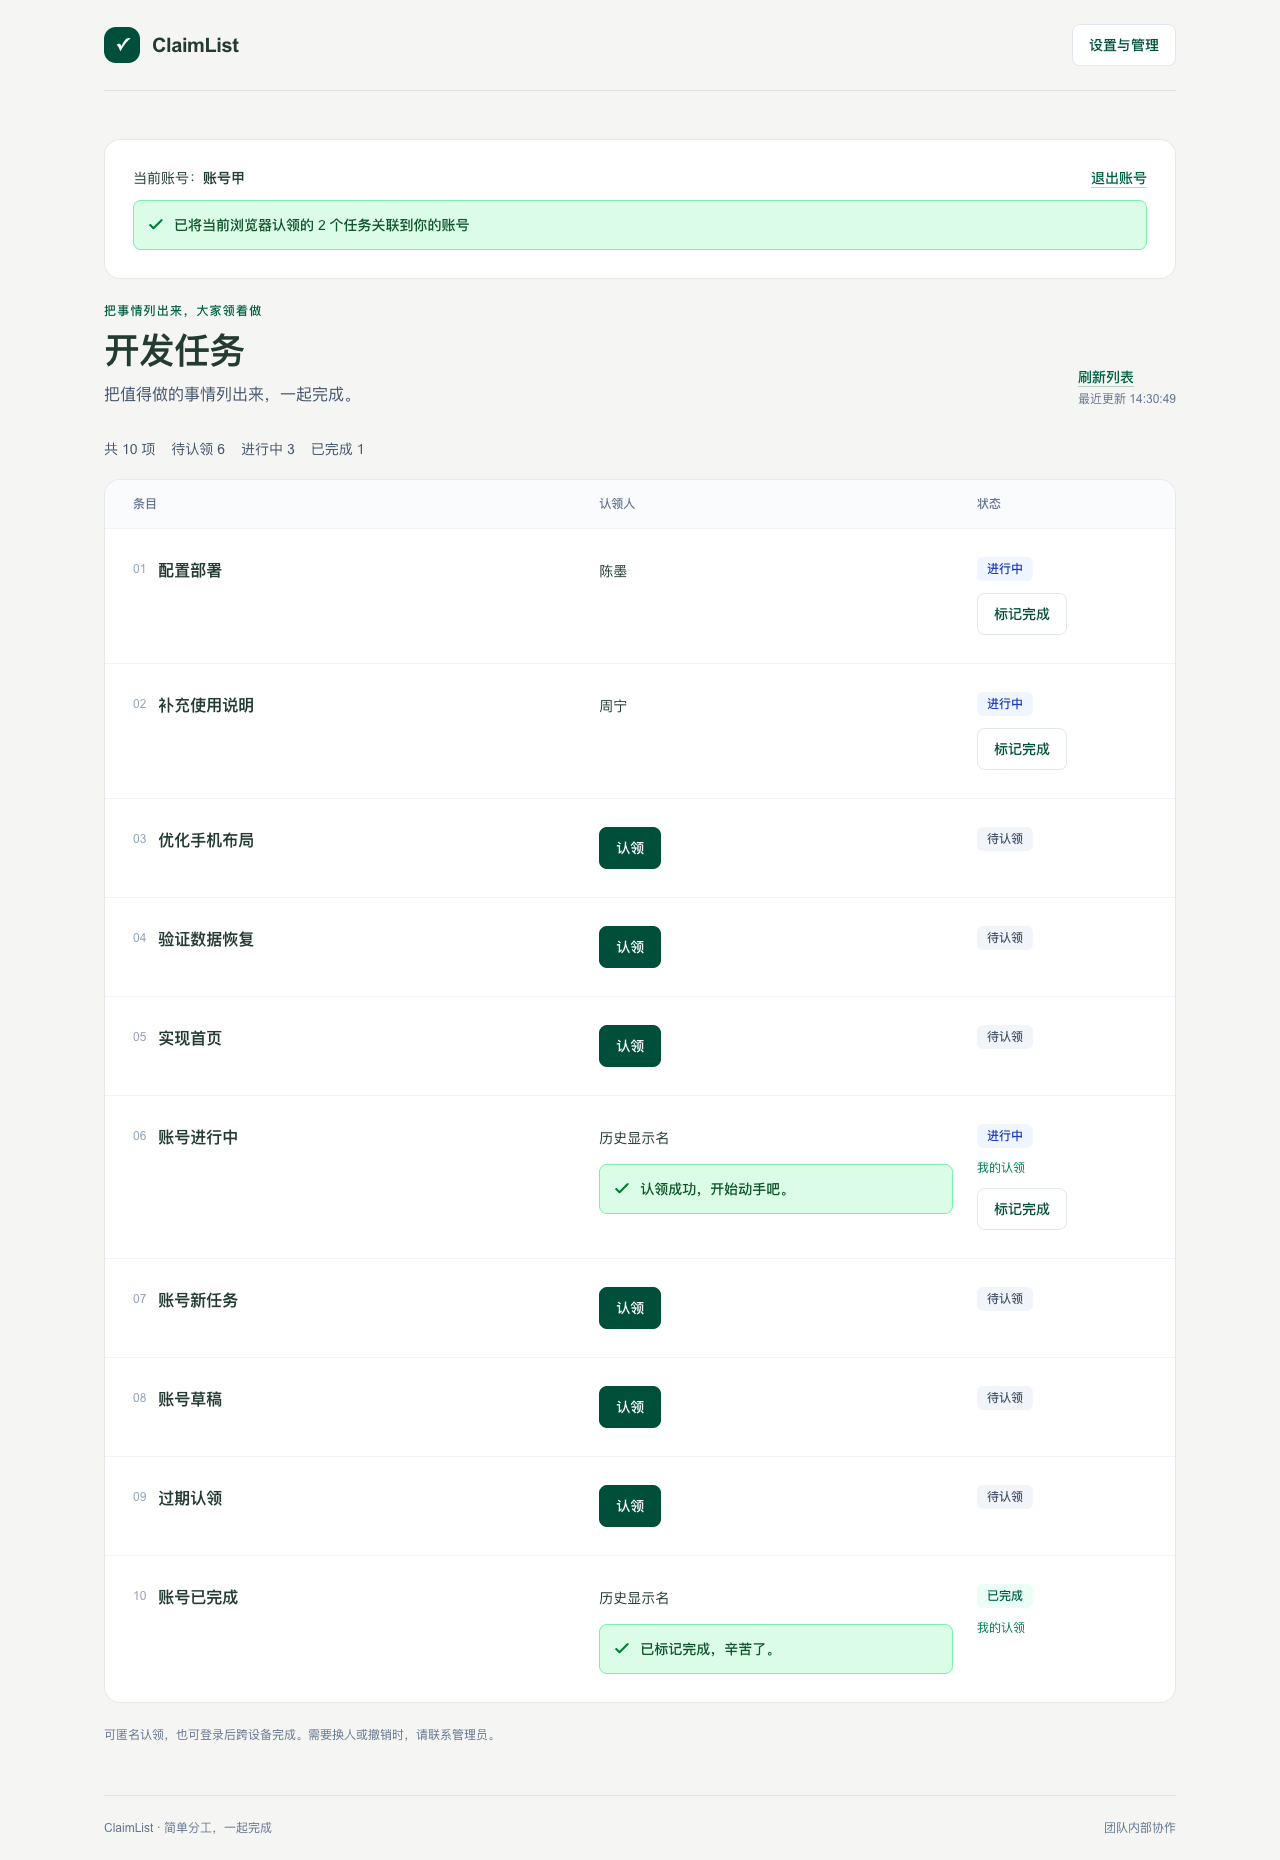
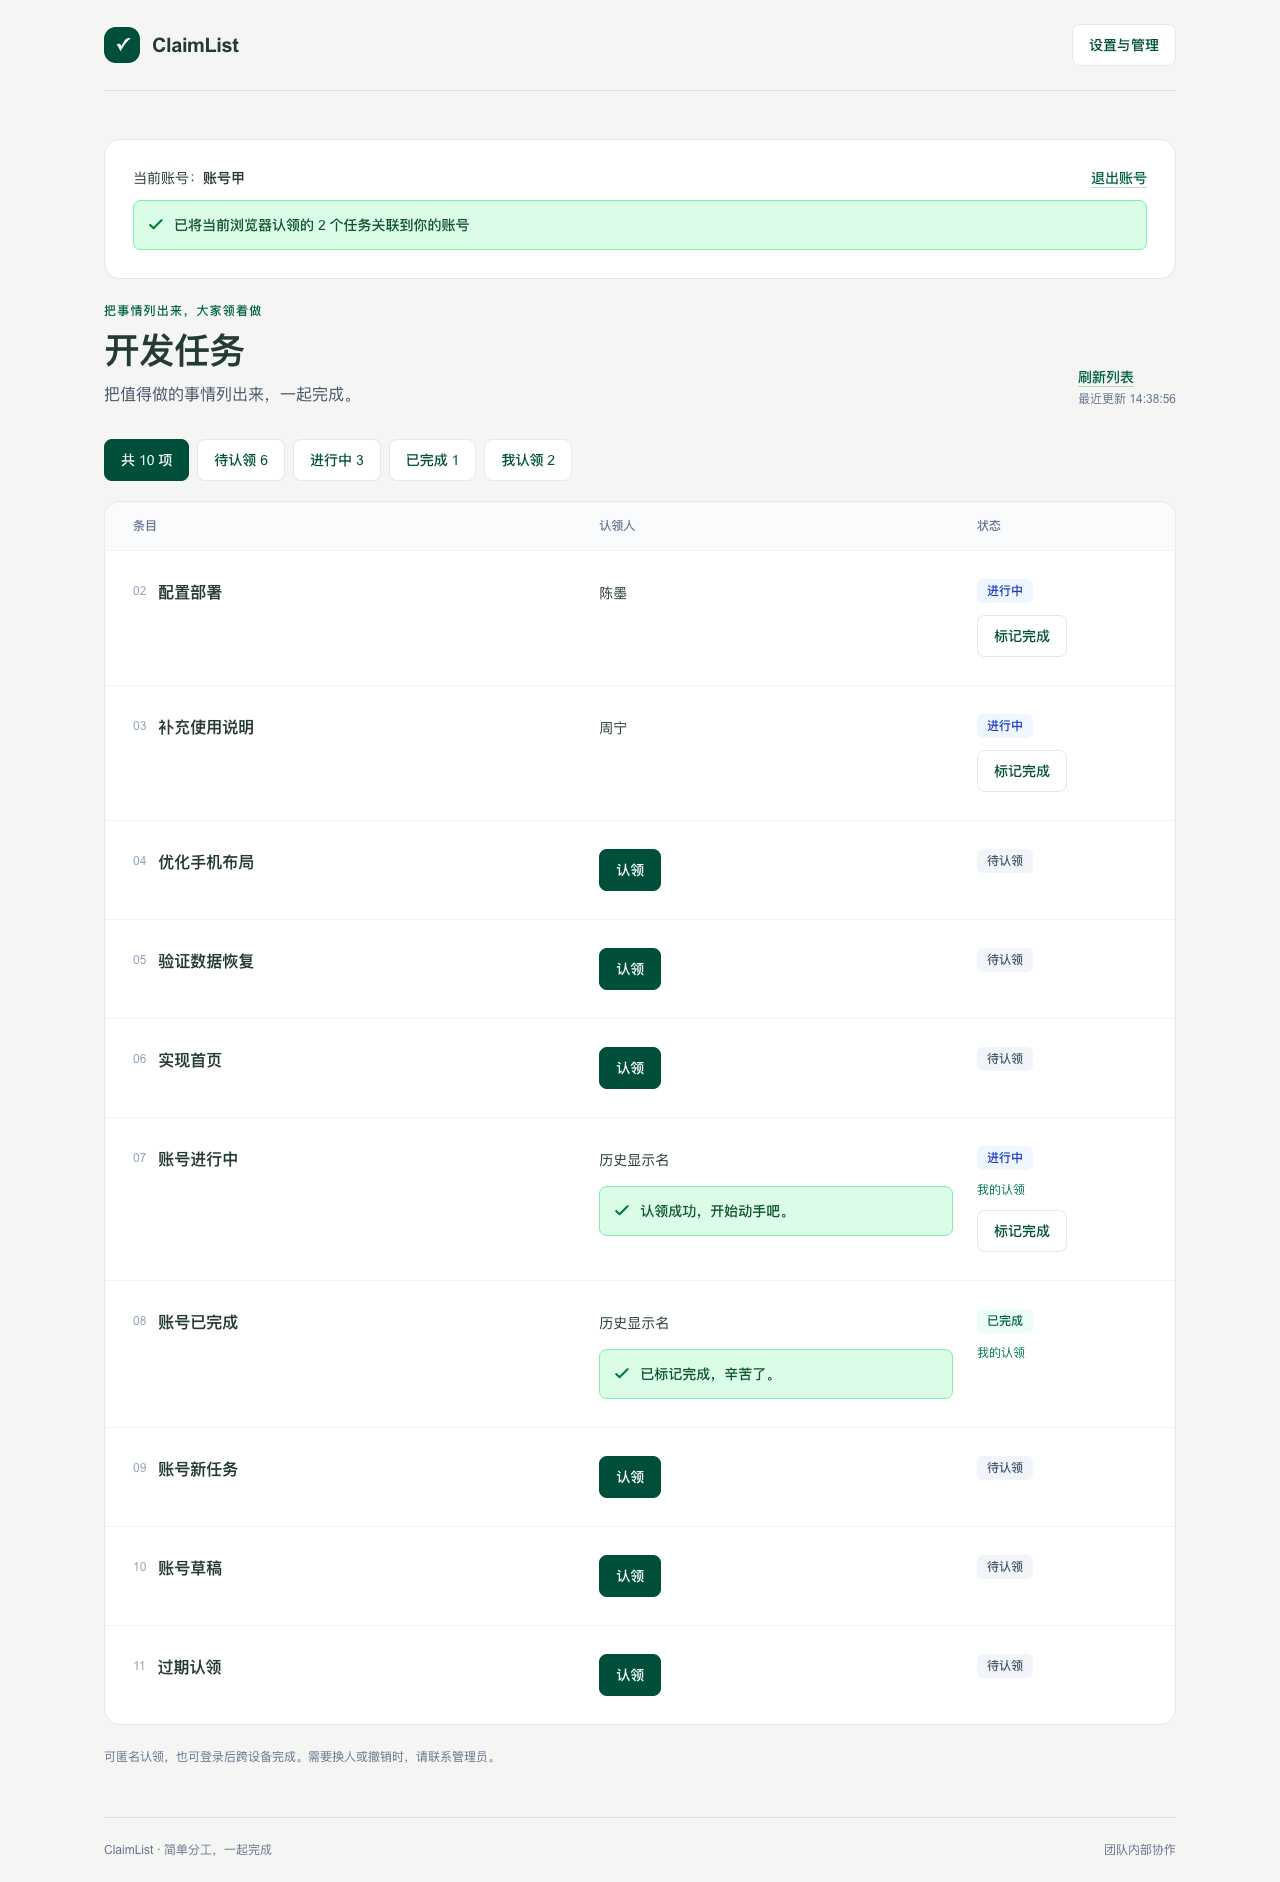
feat: 优化排序，增加筛选机制

diff --git a/src/components/public-list.tsx b/src/components/public-list.tsx
@@ -21,6 +21,7 @@ export function PublicList() {
   const [busy, setBusy] = useState("");
   const [accountBusy, setAccountBusy] = useState(false);
   const [accountMode, setAccountMode] = useState<AccountMode>(null);
+  const [filter, setFilter] = useState("all");
   const [itemNotices, setItemNotices] = useState<
     Record<string, ItemNoticeData>
   >({});
@@ -102,6 +103,27 @@ export function PublicList() {
       setBusy("");
     }
   }
+  const items = data?.items || [];
+  const groups = [
+    { key: "all", label: `共 ${items.length} 项`, items },
+    {
+      key: "unclaimed",
+      label: "待认领",
+      items: items.filter((i) => !i.claimant),
+    },
+    {
+      key: "active",
+      label: "进行中",
+      items: items.filter((i) => i.claimant && !i.completedAt),
+    },
+    {
+      key: "completed",
+      label: "已完成",
+      items: items.filter((i) => i.completedAt),
+    },
+    { key: "mine", label: "我认领", items: items.filter((i) => i.isMine) },
+  ];
+  const visibleItems = groups.find((group) => group.key === filter)!.items;
   const orphaned = data
     ? Object.entries(drafts).filter(
         ([id, d]) => d.name && !data.items.some((i) => i.id === id),
@@ -154,20 +176,36 @@ export function PublicList() {
         </div>
       ) : (
         <>
-          <div className="mb-5 flex flex-wrap gap-4 text-sm text-slate-600">
-            <span>共 {data.items.length} 项</span>
-            <span>待认领 {data.items.filter((i) => !i.claimant).length}</span>
-            <span>
-              进行中{" "}
-              {data.items.filter((i) => i.claimant && !i.completedAt).length}
-            </span>
-            <span>已完成 {data.items.filter((i) => i.completedAt).length}</span>
+          <div
+            role="group"
+            aria-label="条目分类"
+            className="mb-5 flex flex-wrap gap-2"
+          >
+            {groups.map((group) => (
+              <button
+                key={group.key}
+                type="button"
+                aria-pressed={filter === group.key}
+                className={`button ${filter === group.key ? "" : "secondary"}`}
+                onClick={() => setFilter(group.key)}
+              >
+                {group.label}
+                {group.key !== "all" && ` ${group.items.length}`}
+              </button>
+            ))}
           </div>
           {!data.items.length ? (
             <div className="panel py-16 text-center">
               <h2>还没有条目</h2>
               <p className="mt-3 text-sm text-slate-500">
                 暂无条目，管理员可通过右上角设置添加
+              </p>
+            </div>
+          ) : !visibleItems.length ? (
+            <div className="panel py-16 text-center" role="status">
+              <h2>当前分类暂无条目</h2>
+              <p className="mt-3 text-sm text-slate-500">
+                可切换上方分类查看其他条目。
               </p>
             </div>
           ) : (
@@ -180,15 +218,18 @@ export function PublicList() {
                 <span>{data.config.claimantLabel}</span>
                 <span>{data.config.statusLabel}</span>
               </div>
-              {data.items.map((item, index) => (
+              {visibleItems.map((item) => (
                 <article
                   key={item.id}
                   aria-label={item.title}
                   className="grid gap-4 border-b border-slate-100 p-5 last:border-0 md:grid-cols-[minmax(0,1.25fr)_minmax(0,1fr)_170px] md:items-start md:gap-6 md:p-7"
                 >
                   <div className="flex items-start gap-3">
-                    <span className="mt-1 text-xs tabular-nums text-slate-400">
-                      {String(index + 1).padStart(2, "0")}
+                    <span
+                      aria-label="条目序号"
+                      className="mt-1 shrink-0 text-xs tabular-nums text-slate-400"
+                    >
+                      {String(item.sequence).padStart(2, "0")}
                     </span>
                     <h2 className="min-w-0 text-base leading-7 break-words">
                       {item.title}

diff --git a/tests/store.test.ts b/tests/store.test.ts
@@ -109,6 +109,7 @@ test("管理员更名不转移身份，状态纠错和删除重建", (t) => {
   store.claim(item, "张三", identity);
   const row = () =>
     store.list(identity).items.find((entry) => entry.id === item)!;
+  assert.equal(row().sequence, 1);
   store.edit(item, row().revision, "name", "李四");
   assert.equal(row().claimant, "李四");
   assert(row().canComplete);
@@ -128,7 +129,7 @@ test("管理员更名不转移身份，状态纠错和删除重建", (t) => {
   assert(row().completedAt);
   assert.deepEqual(
     store.list(identity).items.map((entry) => entry.title),
-    ["另一个", "新标题"],
+    ["新标题", "另一个"],
   );
   store.edit(item, row().revision, "reopen");
   assert.deepEqual(
@@ -136,6 +137,7 @@ test("管理员更名不转移身份，状态纠错和删除重建", (t) => {
     ["新标题", "另一个"],
   );
   assert.equal(row().completedAt, null);
+  assert.equal(row().sequence, 1);
   assert.equal(row().claimant, "李四");
   store.edit(item, row().revision, "finish");
   store.edit(item, row().revision, "release");
@@ -159,6 +161,16 @@ test("管理员更名不转移身份，状态纠错和删除重建", (t) => {
     .items.find((i) => i.title === "新标题")!;
   assert.notEqual(recreated.id, item);
   assert.equal(recreated.claimant, null);
+  assert.deepEqual(
+    store.list(identity).items.map((entry) => entry.sequence),
+    [2, 3],
+  );
+  store.edit(recreated.id, recreated.revision, "delete");
+  store.addBatch("新条目");
+  assert.deepEqual(
+    store.list(identity).items.map((entry) => entry.sequence),
+    [2, 4],
+  );
 });
 
 test("初始化封闭、会话到期退出与改密重置失效、失败保留密码", (t) => {

diff --git a/src/server/store.ts b/src/server/store.ts
@@ -17,6 +17,7 @@ import {
 
 type Row = {
   id: string;
+  sequence: number;
   title: string;
   claimant: string | null;
   claim_ip: string | null;
@@ -249,15 +250,14 @@ export class Store {
   private listSnapshot(identity: Identity): ListData {
     const participant = this.participants.current(identity.participantToken);
     const rows = this.db
-      .prepare(
-        "SELECT * FROM items ORDER BY completed_at IS NOT NULL, sequence",
-      )
+      .prepare("SELECT * FROM items ORDER BY sequence")
       .all() as Row[];
     return {
       participant,
       config: JSON.parse(this.settings().config),
       items: rows.map((row): Item => ({
         id: row.id,
+        sequence: row.sequence,
         title: row.title,
         claimant: row.claimant,
         claimedAt: row.claimed_at,

diff --git a/src/components/admin.tsx b/src/components/admin.tsx
@@ -380,6 +380,12 @@ export function Admin() {
                     >
                       <div className="min-w-0 flex-1 basis-64">
                         <h3 className="font-medium break-words">
+                          <span
+                            aria-label="条目序号"
+                            className="mr-3 text-xs font-normal tabular-nums text-slate-400"
+                          >
+                            {String(item.sequence).padStart(2, "0")}
+                          </span>
                           {item.title}
                         </h3>
                         <div className="mt-2 flex flex-wrap items-center gap-3">

diff --git a/src/shared/model.ts b/src/shared/model.ts
@@ -17,6 +17,7 @@ export type Config = {
 };
 export type Item = {
   id: string;
+  sequence: number;
   title: string;
   claimant: string | null;
   claimedAt: number | null;

diff --git a/docs/verification.md b/docs/verification.md
@@ -54,7 +54,7 @@
 
 - 后续启动配置调整：pnpm dev/start 明确监听 0.0.0.0:1234；自动直连来源覆盖本机实际 IP，仍校验同源并拒绝任意 Host。
 
-- 列表排序调整：标记完成后移入底部已完成区域，重新打开后回到未完成区域；两组内保留录入顺序。现有数据库状态纠错测试及浏览器完成/重新打开流程增加顺序断言。
+- 历史列表排序调整（已被 2026-10-10 固定序号与分类筛选取代）：标记完成后移入底部已完成区域，重新打开后回到未完成区域；两组内保留录入顺序。现有数据库状态纠错测试及浏览器完成/重新打开流程增加顺序断言。
 
 - 认领冲突简化：服务端返回当前认领人姓名；前端在对应条目的认领人下方显示 5 秒提示框并刷新列表，冲突草稿从页面和 sessionStorage 清除。浏览器验收检查行内提示位置、自动消失、最新认领人、草稿清除及重载行为，截图见 [认领冲突提示](screenshots/claim-conflict-tip.png)。网络结果不确定时仍保留输入。
 
@@ -123,3 +123,16 @@
 - HTTP 端口映射可访问，容器健康检查达到 `healthy`。默认绑定 `0.0.0.0:1234`，宿主机 `./data` 映射到容器 `/data`，可通过环境配置更改。
 
 部署、更新和数据迁入步骤见 [Docker 部署与持久化](docker.md)。现场网络访问范围及反向代理来源 IP 仍需按实际环境确认，保留 AUTH-001 的已知边界。
+
+## 固定录入序号与分类筛选（2026-10-10）
+
+此变更替代此前“完成沉底”的规则。首页和管理页按 SQLite 既有 `sequence` 升序展示，并直接显示固定录入序号；完成、改名、重新打开、释放和筛选不改序号，删除后保留空号。无需修改数据库结构或迁移现有数据。
+
+首页“共 N 项／待认领 N／进行中 N／已完成 N／我认领 N”均为单选分类按钮，选中高亮。数量来自完整清单，筛选结果保留原编号，空分类保留筛选入口与空结果提示。“我认领”包含进行中和已完成条目，使用既有账号或匿名 UUID 归属判断，不使用 IP 或姓名；登录和退出后随最新身份更新。切换分类、刷新不丢姓名草稿，操作后的分类保持选中并按最新状态更新结果。
+
+- `pnpm check`、`pnpm test`（17 组）、`pnpm build` 通过。
+- `PLAYWRIGHT_CHANNEL=chrome pnpm test:e2e`（3 组）通过：默认顺序、完成后位置不变、五种分类、固定序号、空分类、刷新保留选择、切换保留草稿、账号跨设备“我认领”、退出后的数量归零、完成后移出“进行中”筛选结果及原有二次确认和冲突处理。
+- 数据测试覆盖删除后旧编号不变、删除最大序号后不复用、不同账号及同 IP 不计入“我认领”、同 UUID 或所属账号可正确识别进行中和已完成条目。
+- 已目视核对 [我认领筛选](screenshots/filter-mine.png)、[桌面清单](screenshots/list-desktop.png) 和 [手机分类换行](screenshots/list-mobile.png)，手机无横向溢出；截图等待过渡及重绘完成后保存。
+
+全部验证使用隔离数据库；未替换正在使用的容器，也未修改现有任务。容器用户通过重新构建镜像并更新容器应用此次变更，原持久化目录继续沿用。

diff --git a/docs/account-development-plan.md b/docs/account-development-plan.md
@@ -13,7 +13,7 @@
 - 管理员可以重置指定参与者密码；参与者和管理员会话、权限、退出及密码重置相互独立。
 - 不增加邮箱验证、邮件找回、第三方登录、账号资料编辑、账号删除、复杂角色或独立“我的任务”页面。
 
-保留当前已交付交互：完成条目沉底，两组内按录入顺序；不常驻显示身份不匹配文案；认领冲突在条目内显示红底红叉及当前认领人，清除该条目草稿并刷新；成功显示绿底绿勾。提示 5 秒后消失。普通刷新及失败保护输入。
+保留当前已交付交互：条目按固定录入序号排序，支持状态及“我认领”筛选（2026-10-10 更新）；不常驻显示身份不匹配文案；认领冲突在条目内显示红底红叉及当前认领人，清除该条目草稿并刷新；成功显示绿底绿勾。提示 5 秒后消失。普通刷新及失败保护输入。
 
 ## 2. 实施前基线与改动范围
 
@@ -108,7 +108,7 @@
 - [x] 邮箱、姓名等非敏感输入可保留；密码和确认密码不写 localStorage/sessionStorage。切换登录态不清掉无关条目的未提交输入。
 - [x] 管理员重置密码或其他标签页切换身份后，本页刷新立即更新状态；旧页面提交不得绕过服务端校验。
 
-验收：多浏览器上下文分别模拟匿名、账号 A、账号 B 和管理员；覆盖跨设备、跳过登录、存储失效、请求丢失、会话过期、草稿保护与手机布局。保留完成沉底、红叉/绿勾行内提示及认领冲突简化行为。
+验收：多浏览器上下文分别模拟匿名、账号 A、账号 B 和管理员；覆盖跨设备、跳过登录、存储失效、请求丢失、会话过期、草稿保护与手机布局。保留固定录入序号排序、红叉/绿勾行内提示及认领冲突简化行为；排序与分类按 2026-10-10 新决定执行。
 
 ### 7.5 管理员重置参与者密码
 

diff --git a/docs/pages-and-states.md b/docs/pages-and-states.md
@@ -21,7 +21,11 @@
 
 ## 2. 首页与参与者操作
 
-列表先展示未完成条目，再展示已完成条目，两组内各按录入顺序排列。标记完成成功后立即沉入底部的已完成区域；管理员重新打开或释放认领后，条目回到未完成区域的原录入位置。管理页现有条目使用同一排序。
+列表默认按固定录入序号升序显示全部条目，完成后保留原位置。首页与管理页都展示数据库中的录入序号，筛选、删除或改变状态不重新编号；删除留下的空号不补齐。
+
+首页表格上方提供五个可点击分类：“共 N 项、待认领 N、进行中 N、已完成 N、我认领 N”。默认选中全部，当前分类高亮并向辅助技术标记选中状态，手机端自动换行。数量始终来自完整清单，筛选只改变显示内容，结果仍按录入序号升序排列。无匹配项时显示“当前分类暂无条目”，保留分类入口供切换；整个清单为空时仍显示管理员添加指引。
+
+“我认领”包含自己的进行中与已完成条目：已绑定条目匹配当前账号，未绑定条目匹配当前浏览器 UUID，不按 IP 或姓名判断。登录、退出及账号切换后按最新身份重算。切换分类和普通刷新不清除姓名草稿，刷新和操作后保留当前分类选择；条目不再满足筛选条件时移出当前结果。重新打开页面默认显示全部。
 
 | 状态                   | 页面显示                                           | 可执行的操作                         |
 | ---------------------- | -------------------------------------------------- | ------------------------------------ |

diff --git a/docs/product-requirements.md b/docs/product-requirements.md
@@ -41,7 +41,9 @@
 - 没有条目时显示空状态，提示通过右上角设置按钮添加任务列表。
 - 无需登录即可浏览和认领。
 
-空状态文案采用“暂无条目，管理员可通过右上角设置添加”。状态显示为“待认领、进行中、已完成”，已完成条目继续保留并排列在列表底部；未完成与已完成两组内分别按录入顺序展示。标记完成后立即移入底部的已完成区域，重新打开或释放认领后回到未完成区域的原录入位置。首页与管理页采用相同排序。
+空状态文案采用“暂无条目，管理员可通过右上角设置添加”。状态显示为“待认领、进行中、已完成”。按 2026-10-10 最新决定，首页与管理页均按数据库固定录入序号升序显示；完成、重新打开和释放认领不改变序号或排序，删除后不补号，新条目继续递增。
+
+首页默认显示全部条目。表格上方“共 N 项、待认领 N、进行中 N、已完成 N、我认领 N”均可点击，单选筛选对应内容，选中分类高亮；各数量始终统计完整清单，不受当前筛选影响。“我认领”包含进行中与已完成条目，账号条目按当前账号 ID、未绑定条目按当前浏览器 UUID 判断，不按姓名或 IP 判断。筛选结果继续按原序号排列，不重新编号；空分类显示空结果提示。切换分类和普通刷新保留姓名草稿，刷新及操作后的分类选择保持不变。
 
 ### 可选参与者账号
 

diff --git a/README.md b/README.md
@@ -4,7 +4,7 @@
 
 ## 当前交付
 
-原匿名版及 [ACC-001 可选账号系统](docs/account-system.md) 已实现。支持一个可配置清单，展示“待认领／进行中／已完成”，未完成条目在前、已完成条目沉底，两组内各按录入顺序排列。部署地址和数据目录可配置，适用于不同团队的单台内网服务器。
+原匿名版及 [ACC-001 可选账号系统](docs/account-system.md) 已实现。支持一个可配置清单，展示“待认领／进行中／已完成”，默认按录入序号展示全部条目，完成不改变位置；条目显示数据库中的固定录入序号，删除或筛选后不重新编号。上方“共 N 项／待认领／进行中／已完成／我认领”可点击筛选，其中“我认领”包含自己的进行中和已完成任务。部署地址和数据目录可配置，适用于不同团队的单台内网服务器。
 
 - 邮箱、密码、确认密码、姓名注册；邮箱登录，匿名使用可随时跳过登录提示。
 - 登录自动关联当前浏览器 UUID 下尚未绑定的已认领条目，包括已完成条目；历史姓名、时间和状态保留，切换账号不转移已有归属。
